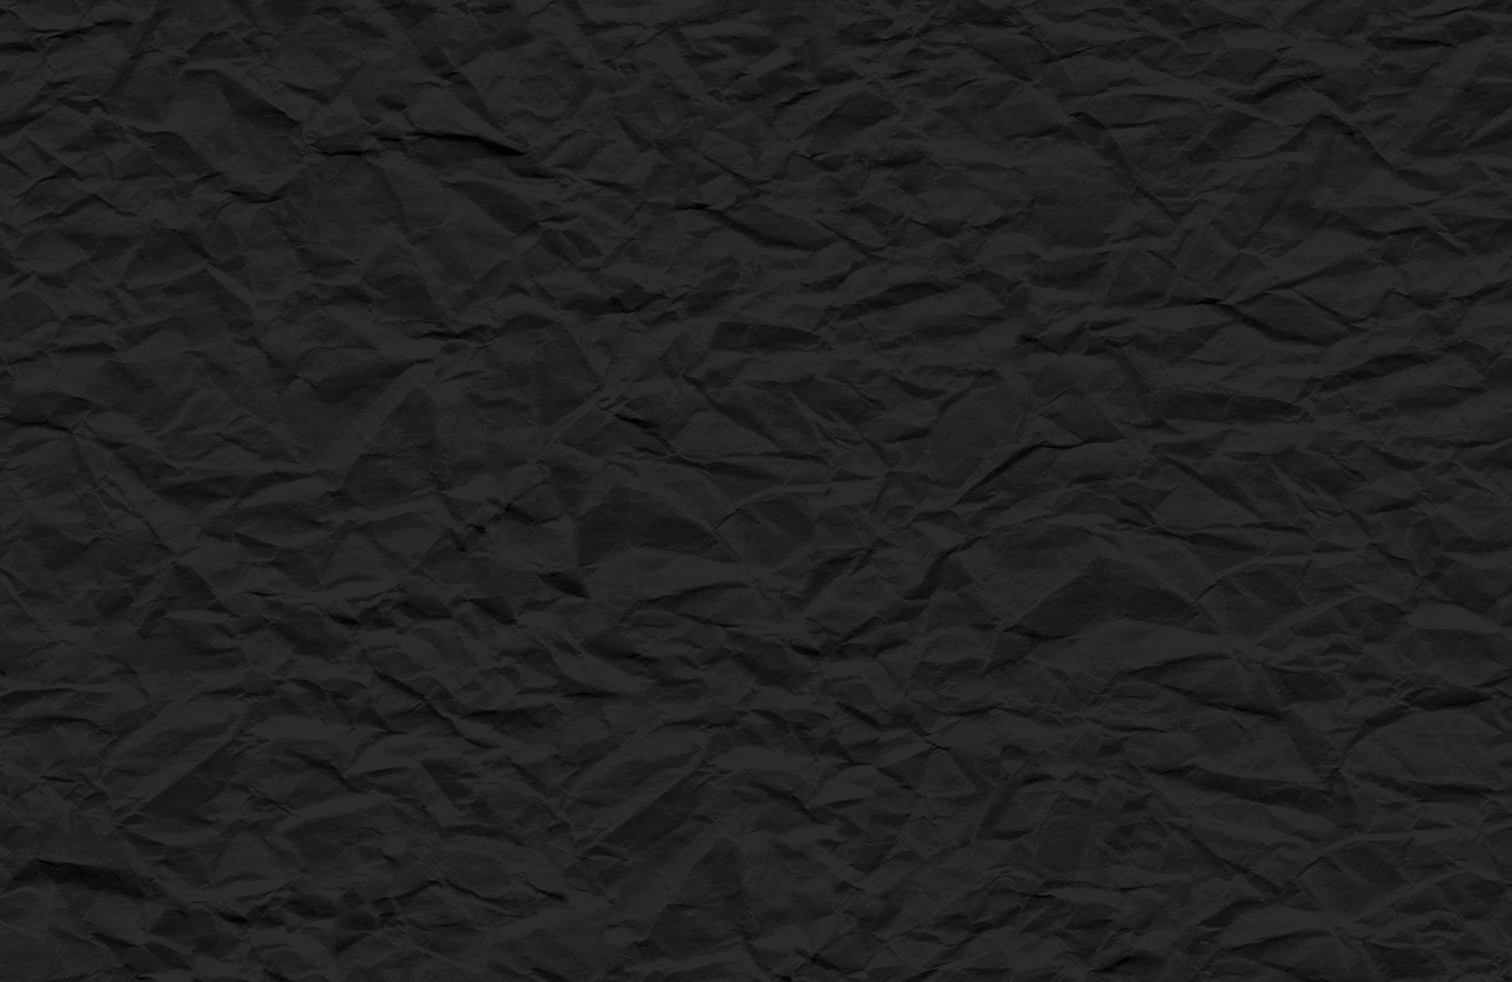
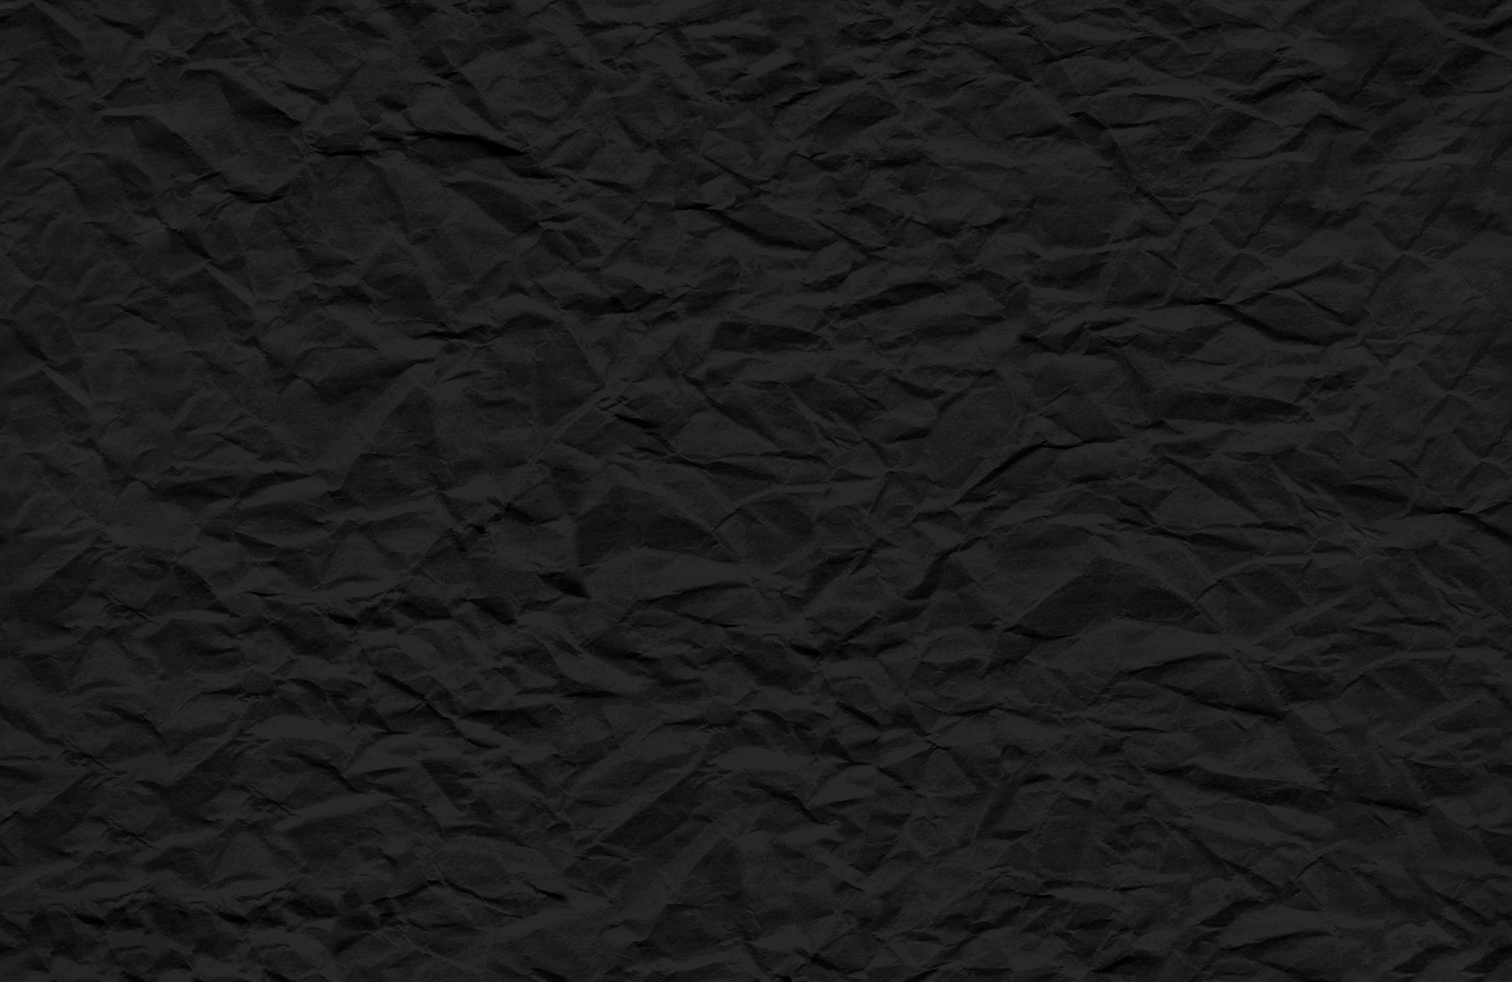
update

diff --git a/app/app.css b/app/app.css
@@ -52,7 +52,7 @@ body {
     color: white;
     /*--1w: min(1.40937vh, 1.09248vw);*/
     /*--100w: min(140.93686vh, 91.53439vw);*/
-    background-image: url('/back-img-2.png');
+    background-image: url('/background.png');
 }
 
 /*body > header {*/
